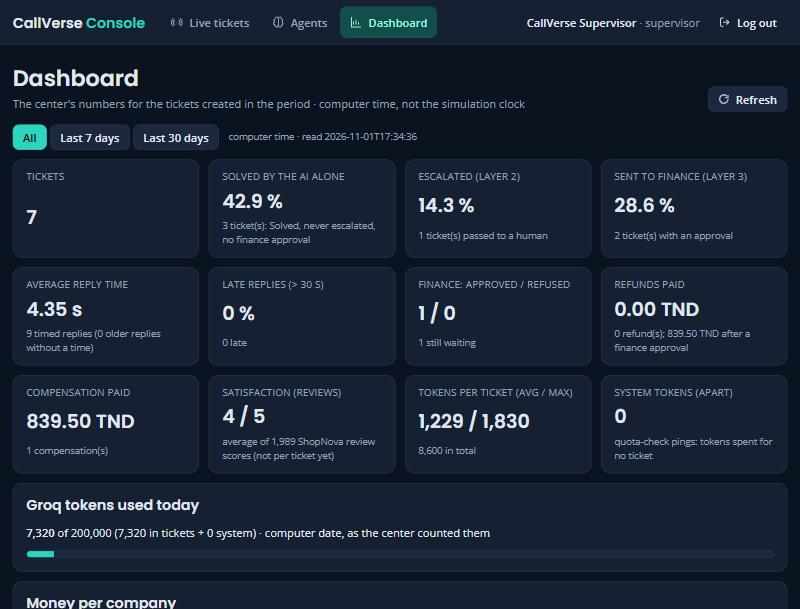
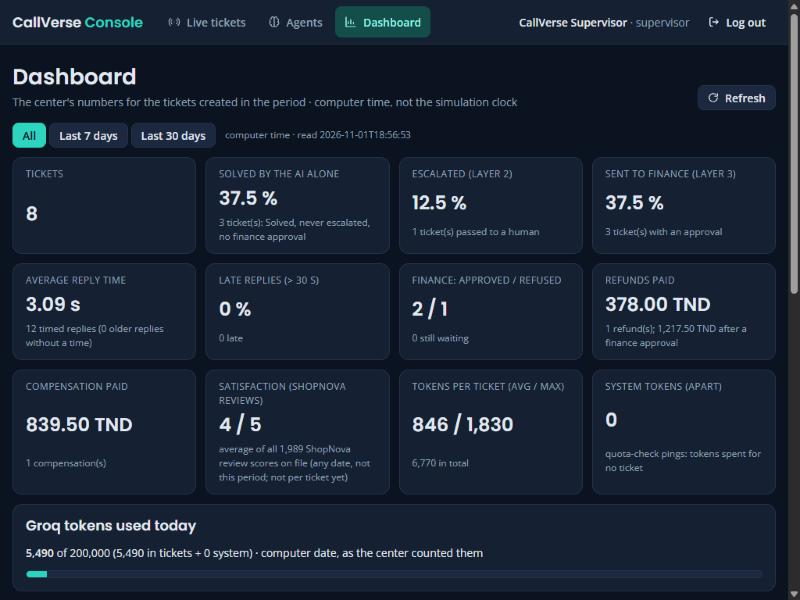
UI step 7 handoff: acceptance sheet matched to the generated data, walkthrough results recorded
- acceptance.md: PowerShell environment lines, the accounts with what each owns in the fixture, the three
  cases with their ids, approve / refuse on separate fresh folders, Dali's recorded results (fake models),
  real-model checks kept "not run".
- screenshots: admin queue 4515, Atlas queue / compensation approved / refund refused / decided, Console
  dashboard after the decisions; the outdated Atlas queue image removed.

diff --git a/webui/reports/acceptance.md b/webui/reports/acceptance.md
@@ -1,131 +1,163 @@
 # CallVerse web UI — acceptance walkthrough (for Yassine, with Dali)
 
 Branch `feat/ui-react`, folder `webui/`. Nothing here is accepted until Yassine says so; the merge into `main` is
-his. Fill the **Result** columns during the walkthrough: `pass` / `fail` / `not run`, plus a note or a
-screenshot name under `webui/reports/screenshots/` as evidence.
+his. Fill the **Result** columns during the walkthrough: `pass` / `fail` / `not run`, plus a note or a screenshot
+name under `webui/reports/screenshots/` as evidence. The **Dali 2026-11-01** column is what Dali saw on a fresh
+fixture with the fake models (part A); part B (real models) was **not run**.
 
 Two kinds of checks, kept apart:
 
-- **A. Fake-model checks** (demo fixture, `CALLVERSE_WEBUI_FAKE_CHAT=1`): no model, no Groq, no real database.
-  Everything in parts 1–4 and most of 5 can be run this way, any day.
-- **B. Real integration checks** (part 6): the real `config/accounts.yaml`, the real `callverse/data/*.db`, Ollama
-  up, the Groq key in `.env`. **Not verified by Dali** (never run through the new UI); they spend Groq quota and
-  write real rows, so they are run together, once, and bounded.
+- **A. Fake-model checks** (demo fixture + `CALLVERSE_WEBUI_FAKE_CHAT=1`): no model, no Groq, no real database,
+  no real money. Parts 1–5. The pending approvals are made by the real Coordinators in queue mode; the decisions
+  run the real `approvals.decide` on the temp databases; only the chat channel and the reply writer are fakes.
+- **B. Real integration checks** (part 6): the real `config/accounts.yaml`, the real `callverse/data/*.db`,
+  Ollama up, the Groq key in `.env`. Never run through the new UI by Dali; they spend Groq quota and write real
+  rows, so they are run together, once, bounded.
 
-## 1. Startup
+## 1. Startup (A)
 
-Fake-model setup (A), from the repository root, two terminals:
+From the repository root. Make a fresh fixture folder (any empty folder; delete it at the end):
 
 ```bash
-python -m webui.api.dev_fixture C:\path\to\a\temp\folder
+python -m webui.api.dev_fixture C:\Temp\cv-demo
 ```
 
-Set the four `CALLVERSE_WEBUI_*` variables it prints, plus `CALLVERSE_LAYER3_MODE=queue` and
-`CALLVERSE_WEBUI_FAKE_CHAT=1`, in the terminal of the API. Then:
+It prints the pending approvals it made (ids `#1 #2 #3` on a fresh folder). Then, **in the terminal of the
+API** (PowerShell, copy-paste; change the folder if you used another one):
 
-```bash
+```powershell
+$env:CALLVERSE_WEBUI_ACCOUNTS = "C:\Temp\cv-demo\accounts.yaml"
+$env:CALLVERSE_WEBUI_TICKETS_DB = "C:\Temp\cv-demo\callverse.db"
+$env:CALLVERSE_WEBUI_SHOPNOVA_DB = "C:\Temp\cv-demo\shopnova.db"
+$env:CALLVERSE_WEBUI_ATLAS_DB = "C:\Temp\cv-demo\atlas.db"
+$env:CALLVERSE_LAYER3_MODE = "queue"
+$env:CALLVERSE_WEBUI_FAKE_CHAT = "1"
 python -m webui.api.run
 ```
+
+Second terminal:
 
 ```bash
 npm --prefix webui/frontend run dev
 ```
 
-Open <http://127.0.0.1:5173>. Password of every demo account in the fixture: `demo-only`. Delete the temp folder
-at the end.
+Open <http://127.0.0.1:5173>. Password of every demo account in the fixture: `demo-only`.
 
-Real setup (B): same two commands **without** any `CALLVERSE_WEBUI_*` variable and without
-`CALLVERSE_WEBUI_FAKE_CHAT` (the API then uses the real accounts file and databases); Ollama running; `.env`
-with the Groq key (never printed, never read by the UI code). `CALLVERSE_LAYER3_MODE=queue` only if you want the
-approval queue to fill.
+**One approval cannot be both approved and refused.** The fixture gives three pending cases; the walkthrough
+below approves two and refuses one. To see the ShopNova refusal too, run `dev_fixture` into a **second fresh
+folder** (`C:\Temp\cv-demo-2`), point the API at it (same six lines) and refuse case `#1` there (part 4, last row).
 
-| Check | Expected | Result | Evidence |
-|---|---|---|---|
-| `python -m webui.api.run` starts | "Uvicorn running on http://127.0.0.1:8610", `/api/health` → `{"ok": true}` | | |
-| Vite starts | page on 127.0.0.1:5173, login screen | | |
-| binds | both on 127.0.0.1 only (not 0.0.0.0) | | |
+| Check | Expected | Dali 2026-11-01 | Result | Evidence |
+|---|---|---|---|---|
+| `dev_fixture` | prints "Pending approvals (test data): ShopNova #1 youssef order 4515 refund 378.00 TND; Atlas #2 nizar flight 7004 compensation 839.50 TND; Atlas #3 sonia flight 7006 refund 1900.00 TND" | pass | | `test_dev_fixture.py` |
+| API starts | "CHAT IS FAKE …" line, Uvicorn on 127.0.0.1:8610, `/api/health` → `{"ok": true}` | pass | | |
+| Vite starts | login page on 127.0.0.1:5173 | pass | | |
+| binds | both on 127.0.0.1 only | pass (`run.py`, `vite.config.js`) | | |
 
-## 2. Accounts and roles
+## 2. Accounts and roles (A)
 
-| Account | Role / company | Lands on | Must NOT see | Result | Evidence |
-|---|---|---|---|---|---|
-| `supervisor` | supervisor, no company | Console → Live tickets | /shop, /atlas, /admin pages (403 in the API, "denied" box) | | |
-| `admin` | ShopNova admin | Refund approvals | Atlas approvals / records / dashboard, any customer page | | |
-| `sara` `youssef` `amira` `karim` `leila` | ShopNova customers (ids 1–5) | My orders | another customer's order (404, same as missing), Atlas pages, admin pages | | |
-| `atlas_admin` | Atlas admin | Atlas approvals | ShopNova approvals / dashboard, customer pages | | |
-| `hedi` `sonia` `tarek` `lobna` `nizar` | Atlas customers (ids 1–5) | My bookings | another customer's booking, ShopNova pages (`hedi` is id 1 at Atlas, `sara` id 1 at ShopNova: never the same data) | | |
-| wrong password | "Wrong username or password", no detail | | | | |
-| logout | back to login; a reload stays on login (cookie gone) | | | | |
+What the fixture holds per customer (the scripted samples; everything else is real Olist / hotel / flight data):
+
+| Account | Role / company | Lands on | Owns (scripted) | Must NOT see |
+|---|---|---|---|---|
+| `supervisor` | supervisor, no company | Console → Live tickets (8 tickets) | — | `/shop`, `/atlas`, `/admin` pages (403, "denied" box) |
+| `admin` | ShopNova admin | Refund approvals: **#1** order 4515, 378.00 TND | — | Atlas approvals / records / dashboard, customer pages |
+| `sara` | ShopNova customer 1 | My orders | orders 4509, **4512** (stuck at the depot, 59.90 TND); ticket T-0001 (refund 59.90 approved) | 4515 (youssef's) → not found |
+| `youssef` | ShopNova customer 2 | My orders | orders 4505, 4510, **4515** (378.00 TND, 8 days late); tickets T-0002 (tracking 4510), **T-0006 waiting for finance** | Atlas pages |
+| `amira` `karim` `leila` | ShopNova customers 3–5 | My orders | 4506 + 4511 / 4507 + 4513 / 4508 + 4514 (leila: T-0005 cancel 4514) | another customer's order |
+| `atlas_admin` | Atlas admin | Approvals: **#2** flight 7004 compensation 839.50, **#3** flight 7006 refund 1,900.00 | — | ShopNova approvals / dashboard |
+| `hedi` | Atlas customer 1 | My bookings | hotels 7001, 7011; flight 7005 (cancelled); ticket T-0003 (rebooking, escalated) | sara's data (same numeric id 1 at ShopNova) |
+| `sonia` | Atlas customer 2 | My bookings | hotel 7002; **flight 7006**; ticket **T-0008 waiting for finance** | |
+| `tarek` | Atlas customer 3 | My bookings | hotel 7003; flight 7007 | |
+| `lobna` | Atlas customer 4 | My bookings | hotel 7009; flight 7008 (cancelled); ticket T-0004 (baggage, waiting for user) | |
+| `nizar` | Atlas customer 5 | My bookings | **flight 7004**, flight 7010 (wheelchair request); ticket **T-0007 waiting for finance** | |
+
+| Check | Expected | Dali 2026-11-01 | Result | Evidence |
+|---|---|---|---|---|
+| each account lands on its home | as the table | pass (API: `test_api.py`, `test_atlas.py`; browser: admin, atlas_admin, youssef, sonia, nizar, supervisor) | | |
+| wrong password | "Wrong username or password", no detail | pass (test) | | |
+| cross-company / cross-customer | 403 or the same 404 as missing | pass (`test_shop.py`, `test_atlas.py`, `test_admin.py`) | | |
+| logout | back to login; reload stays on login | pass (test, browser) | | |
 
 ## 3. Customer flows (A: fake chat)
 
-| Flow | Steps | Expected | Result | Evidence |
-|---|---|---|---|---|
-| ShopNova My orders | log in as `sara` | her orders, newest first, "today 2026-10-09 (simulation clock)" | | |
-| Order detail | open order 4505 | lines, tracking, refunds; missing values "—", never 0 | | |
-| Ask about this order | button on the detail | chat opens with "About order 4505…" placeholder | | |
-| Chat reply | send "where is my order" | live steps (Intake, Agent …), then a reply starting `[TEST DATA]`, outcome shown as text | | |
-| Chat busy | send a message containing `busy` | "Our assistant is busy right now … your message is saved"; no red error box | | |
-| Chat disconnect | send a message containing `slow`, reload the page within 20 s | "A message is still being processed", Send disabled, "Check status" re-attaches; after ~20 s the reply appears once | | |
-| Chat failure | send a message containing `fail` | red box with the error's words, no reply invented | | |
-| Enter / Shift+Enter | in the chat box | Enter sends, Shift+Enter makes a new line | | |
-| Atlas My bookings | log in as `hedi` | flights and hotel stays (7001 …), types labelled | | |
-| Booking detail | open hotel 7001 and a flight | facts list, refunds, compensations; wrong type in the URL → not found | | |
-| Atlas chat with context | "Ask about this booking" | placeholder names the booking; reply `[TEST DATA]` | | |
-| Phone 375 px | any customer page | no horizontal scroll; fact lists stack label over value | | `10_atlas_booking_detail_phone_final.jpg` |
+| Flow | Steps | Expected | Dali 2026-11-01 | Result | Evidence |
+|---|---|---|---|---|---|
+| ShopNova My orders | `sara` | orders 4509 and 4512 among her orders, newest first, "today 2026-10-09 (simulation clock)" | pass (step 2 browser; `test_shop.py`) | | |
+| Order detail | `sara` → 4512 | 59.90 TND, stuck at the depot, promised 2026-10-03; "—" for missing values; 4515 → not found | pass (test: ownership) | | |
+| Ask about this order | button on the detail | chat with "About order 4512…" placeholder | pass (step 3 browser) | | |
+| Chat reply | send "where is my order" | live steps, then a reply starting `[TEST DATA]`, outcome as text | pass (browser, `Chat.test.jsx`) | | `desktop_31_chat_reply_test_data.jpg` |
+| Chat busy | message containing `busy` | "Our assistant is busy right now … your message is saved", no red box | pass (test + browser) | | |
+| Chat disconnect | message containing `slow`, reload within 20 s | "still being processed", Send disabled, Check status re-attaches; one reply after ~20 s | pass (browser, step 3) | | `desktop_33_chat_still_running_after_reload.jpg` |
+| Chat failure | message containing `fail` | red box with the error's words, no invented reply | pass (test) | | |
+| Atlas My bookings | `nizar` | flights 7004 and 7010 | pass (browser) | | |
+| Booking detail | `hedi` → hotel 7001 | facts list; wrong type in the URL → not found | pass (browser, phone) | | `10_atlas_booking_detail_phone_final.jpg` |
+| Unread reply after a decision | `youssef` / `nizar` / `sonia` after part 4 | notice "new reply" on the ticket, the finance reply as the last message | pass (API walkthrough + `test_dev_fixture.py`) | | |
+| Phone 375 px | any customer page | no horizontal scroll; fact lists stack label / value | pass (browser) | | |
 
-## 4. Admin flows (A)
+## 4. Admin flows (A) — the decisions, in this order
 
-| Flow | Steps | Expected | Result | Evidence |
-|---|---|---|---|---|
-| ShopNova queue | `admin` → Refund approvals | one pending approval (order 4505, 1,850 TND, test data) with the order facts and the rule | | |
-| Confirm dialog | type a reason, Approve | dialog repeats approval id, amount, action, choice, reason; Tab / Shift+Tab stay inside; Escape closes; focus returns to Approve | | `07_shop_admin_dialog_keyboard_phone.jpg` |
-| Decide | Confirm approval | result box: approval approved, ticket status, "refund … written", "the customer got a new reply"; the row moves to Decided; the customer (`sara`) sees an unread-reply notice | | `desktop_42_admin_approved_result.jpg` |
-| Second click | double-click Confirm | one POST only (`client_id`), one decision | | |
-| Already decided | decide the same approval from a second tab | "already approved", nothing written twice | | |
-| Refuse | Refuse with a reason | nothing paid, customer told, row Decided | | |
-| Atlas queue | `atlas_admin` → Approvals | the pending compensation (flight 7004, 839.50 TND) and refund (flight 7006, 1,900 TND), action named (refund / compensation), never assumed | | `desktop_53_atlas_admin_queue_compensation.jpg` |
-| Atlas records | Records → hotels / flights / users / refunds / compensations / log | 50 rows per page, search, paging; read-only | | |
-| Denied | `admin` opens `/atlas/admin/approvals` | denied box with the API's words, no data | | |
+Each row is done once; the ids are those of a fresh fixture folder.
 
-## 5. Dashboards: same data, same period, Streamlit next to the new UI
+| # | Flow | Steps | Expected | Dali 2026-11-01 | Result | Evidence |
+|---|---|---|---|---|---|---|
+| 4.1 | ShopNova queue | `admin` → Refund approvals | one pending: **#1**, order 4515 · Youssef Trabelsi, 378.00 TND, rule R-REF-03 "Full refund for a delay of more than 5 days", proposal P-0001, facts: stuck at depot, paid 378.00, already refunded 0.00, 8 days late | pass (browser, exactly that) | | `desktop_40_admin_queue_4515.jpg` |
+| 4.2 | Confirm dialog | reason "late and stuck", Approve | dialog repeats #1, 378.00 TND, refund, choice, reason; Tab / Shift+Tab stay inside; Escape closes; focus back | pass (browser + 2 tests) | | `07_shop_admin_dialog_keyboard_phone.jpg` |
+| 4.3 | Approve #1 | Confirm approval | result: "Approval 1: approved. Outcome approve · ticket T-0006 is now Solved · refund 378.00 TND written · the customer got a new reply."; Waiting (0); order 4515 refunded | pass (browser, exactly that; evidence stage `complete`, notification `confirmed`) | | `desktop_42_admin_approved_result.jpg` |
+| 4.4 | Double click | double-click Confirm | one POST (`client_id`), one refund | pass (test `submits once`) | | |
+| 4.5 | Again | decide #1 again (another tab or a new request id) | 409 `already_decided`, nothing paid twice | pass (API walkthrough: 409 `already_decided`; `test_dev_fixture.py`) | | |
+| 4.6 | Atlas queue | `atlas_admin` → Approvals | Waiting (2): **#2** flight booking 7004 · Nizar Haddad · compensation 839.50 TND · AP-0001 · AT-FLT-03 "Compensation for a long delay"; **#3** flight booking 7006 · Sonia Belhaj · refund 1,900.00 TND · AP-0002 · AT-FLT-04 "Delay of 5 hours or more at departure"; "Confirmed by code: yes" | pass (browser, exactly that) | | `desktop_53_atlas_admin_queue.jpg` |
+| 4.7 | Approve #2 | reason "delay confirmed", Approve, Confirm | "Approval 2: approved. Outcome approve · ticket T-0007 is now Solved · compensation 839.50 TND written · the customer got a new reply."; one compensation on 7004 (Records → Compensation: one row, 839.5, approved, AT-FLT-03, AP-0001), no refund | pass (browser) | | `desktop_54_atlas_compensation_approved.jpg` |
+| 4.8 | Refuse #3 | reason "airline already refunded", Refuse, Confirm | "Approval 3: refused. Outcome layer3 refused · ticket T-0008 is now Solved · nothing paid · the customer got a new reply."; Decided (2): #3 refused, #2 approved, both "decided by atlas_admin, 2026-10-09T09:00:00 (simulation clock)"; Records → Admin log: `refuse_refund` AP-0002 and `approve_compensation` 1 | pass (browser) | | `desktop_55_atlas_refund_refused.jpg`, `desktop_56_atlas_decided.jpg` |
+| 4.9 | Customers told | `youssef`, `nizar`, `sonia`, `hedi`, `sara` → chat | youssef: unread T-0006, last message the finance reply; nizar: unread T-0007; sonia: unread T-0008 ("We are sorry, we cannot approve…"); hedi and sara: nothing unread | pass (API walkthrough, all five) | | |
+| 4.10 | Atlas records | Records → Compensation, Admin log | "1 rows · 50 per page · page 1 of 1": the compensation on 7004; the log's two rows carry approval_id 2 and 3, the reasons, the amounts | pass (browser) | | |
+| 4.11 | Denied | `admin` opens `/atlas/admin/approvals` | 403 `admin_only`, denied box with the API's words, no data | pass (API walkthrough: 403 `admin_only`; browser step 5) | | |
+| 4.12 | **ShopNova refusal** (second fresh folder) | `admin`, reason "duplicate claim", Refuse #1 | outcome `layer3_refused`, refund none, ticket T-0006 Solved; Decided: #1 refused "duplicate claim"; order 4515 still `stuck_at_depot`, refunds empty; youssef: unread T-0006, last message "We are sorry, we cannot approve…" | pass (API walkthrough on folder 2, exactly that) | | |
 
-Run the Streamlit app and the new UI on the **same database files** (the real ones for B, or point the Streamlit
-app at the fixture files for A) and the **same period**. Read the numbers side by side; they must be equal, not
-"close" (same functions underneath: `reads.dashboard`, `admin_reads.dashboard`, `atlas_app_reads.dashboard`).
+Note on the reply the customer gets: the fake writer's sentence is checked by the core's SLM check (it must
+carry the facts); it fails that check, so the core writes its **template** reply ("Your request has been
+approved about your order 4515 … Your refund of 378.00 TND is approved after a check by our finance team"). Not
+marked `[TEST DATA]`, but no model ran (the core's own fallback). The fake chat replies are marked.
 
-| Dashboard | Period to compare | Numbers to read in both | Result | Evidence |
-|---|---|---|---|---|
-| Console Dashboard (`supervisor`) | All, then Last 7 days (computer time) | tickets, solved by the AI %, escalated, money per company, Groq today (used / limit), tickets per day, by status | | `desktop_60/61_console_dashboard*.jpg` |
-| Console Dashboard satisfaction | any | the same average as the Streamlit page; the note says "all ShopNova review scores on file (any date, not this period)" | | |
-| Console Agents | All | per agent: tickets, tokens, average seconds, models; Coordinator "rules (no LLM)"; "—" where Streamlit shows nothing | | `desktop_62_console_agents.jpg` |
-| ShopNova dashboard (`admin`) | 30 days, then 90 (simulation clock, from … to 2026-10-09) | orders, sales TND, late, stuck, refunds paid, top products / categories, review average + count, low stock | | `desktop_63_shop_admin_dashboard.jpg` |
-| Atlas dashboard (`atlas_admin`) | All, then 7 days | hotel / flight by status, cancellation and delay rates, refunds and compensation paid, upcoming arrivals / departures until 2026-10-23 | | `desktop_64_atlas_admin_dashboard.jpg` |
-| Period change that fails | stop the API, change the period | old numbers dimmed with "could not be loaded … the numbers below are those of <old period>"; Retry works after restart | | |
-| Charts | any | "Show as table" lists the same values as the bars; the chart's accessible name lists them | | |
+## 5. Dashboards (A, then B): same data, same period, Streamlit next to the new UI
 
-## 6. Real integration (B) — bounded manual smoke test, NOT verified by Dali
+Run the Streamlit page and the new UI on the **same database files** and the **same period**; read the numbers
+side by side. They must be equal (same functions underneath: `reads.dashboard`, `admin_reads.dashboard`,
+`atlas_app_reads.dashboard`). For part A point the Streamlit apps at the fixture files too (their own
+`CALLVERSE_*` settings, see the main README); for part B both read the real files.
 
-Run once, together, with Ollama up and the Groq key in `.env`. Budget: at most **3 chat messages** and **1
-decision** (each chat message costs Groq tokens; each decision writes a real row). Stop at the first failure and
-keep the trace file name (`traces/`).
+| Dashboard | Period | Numbers to read in both | Dali 2026-11-01 (new UI on the fixture, before the decisions) | Result | Evidence |
+|---|---|---|---|---|---|
+| Console Dashboard (`supervisor`) | All, then Last 7 days (computer time) | tickets, solved by the AI %, escalated, money per company, Groq today (used / limit), tickets per day, by status | after 4.3–4.8: 8 tickets, 37.5 % solved by the AI alone, 12.5 % escalated, 37.5 % sent to finance, finance 2 / 1 (0 waiting), refunds paid 378.00 TND, compensation 839.50 TND, Groq today 5,490 of 200,000, money per company atlas 839.5 / shopnova 378 | | `desktop_60_console_dashboard.jpg`, `desktop_01_supervisor_live_tickets_after_decisions.jpg` |
+| Console satisfaction | any | same average as Streamlit; note "all ShopNova review scores on file (any date, not this period)" | shown with the note | | |
+| Console Agents | All | per agent: tickets, tokens, average seconds, models; Coordinator "rules (no LLM)"; "—" where nothing | pass (step 6) | | `desktop_62_console_agents.jpg` |
+| ShopNova dashboard (`admin`) | 30 days, then 90 (simulation clock) | orders, sales TND, late, stuck, refunds paid, top products / categories, review average + count, low stock | pass (step 6; after 4.3 "refunds paid" includes 378.00) | | `desktop_63_shop_admin_dashboard.jpg` |
+| Atlas dashboard (`atlas_admin`) | All, then 7 days | hotel / flight by status, cancellation and delay rates, refunds and compensation paid, upcoming until 2026-10-23 | pass (step 6; after 4.7 "compensation paid" includes 839.50) | | `desktop_64_atlas_admin_dashboard.jpg` |
+| Period change that fails | stop the API, change the period | old numbers dimmed, "could not be loaded … the numbers below are those of <old period>"; Retry works after restart | pass (`Dashboards.test.jsx`; browser step 6) | | |
+| Charts | any | "Show as table" lists the same values as the bars | pass (test + browser) | | |
+| **Streamlit side by side** | same files, same period | equal numbers | **not run** (Streamlit not started by Dali) | | |
 
-| # | Step | Expected | Result | Evidence |
-|---|---|---|---|---|
-| 1 | API without `CALLVERSE_WEBUI_*`, log in as a real ShopNova customer | real orders listed | | |
-| 2 | one chat message about a real order ("where is my order N") | steps stream live (Intake → Router → Agent → Coordinator → SLM), reply not marked `[TEST DATA]`, the same ticket visible in the Console and in the Streamlit Console | | ticket id, trace file |
-| 3 | one message that the queue mode sends to finance (amount above the limit, `CALLVERSE_LAYER3_MODE=queue`) | "waiting for finance" outcome; the approval appears in the admin queue of the new UI AND in the Streamlit admin page | | approval id |
-| 4 | one decision on it in the new UI | refund written once, approval decided, the customer's ticket gets the reply; the Streamlit page shows the same decided row | | |
-| 5 | (optional, only if the Groq daily quota is actually gone) one message | the channel's busy reply shown as a saved, normal result | | |
+## 6. Real integration (B) — bounded manual smoke test, NOT run by Dali
 
-Not in this smoke test (would need core work or a quota we do not want to spend): a forced Groq 429, a decision
-interrupted halfway, Agent C / D flows (escalated until they exist).
+Run once, together, with Ollama up and the Groq key in `.env`, **without** any `CALLVERSE_WEBUI_*` variable and
+without `CALLVERSE_WEBUI_FAKE_CHAT` (the API then uses the real accounts file and databases). Budget: at most
+**3 chat messages** and **1 decision**. Stop at the first failure and keep the trace file name (`traces/`).
+
+| # | Step | Expected | Dali | Result | Evidence |
+|---|---|---|---|---|---|
+| 1 | API on the real files, log in as a real ShopNova customer | real orders listed | not run | | |
+| 2 | one chat message about a real order | steps stream live (Intake → Router → Agent → Coordinator → SLM); reply not marked `[TEST DATA]`; the ticket visible in the new Console and in the Streamlit Console | not run | | ticket id, trace file |
+| 3 | one message the queue mode sends to finance (`CALLVERSE_LAYER3_MODE=queue`, amount above the limit) | "waiting for finance"; the approval in the new UI's queue AND in the Streamlit admin page | not run | | approval id |
+| 4 | one decision on it in the new UI | money written once, approval decided, the customer's ticket gets the SLM reply; Streamlit shows the same decided row | not run | | |
+| 5 | (only if the Groq daily quota is actually gone) one message | the channel's busy reply shown as a saved, normal result | not run | | |
+
+Not in this smoke test: a forced Groq 429, a decision interrupted halfway, Agent C / D flows.
 
 ## 7. Open core blockers (Yassine's decisions)
 
 | # | Blocker | Where it bites | What the UI does today |
 |---|---|---|---|
-| 1 | **Partial decision recovery.** `approvals.decide` can fail after the company write (money committed, approval row still pending or the customer reply not sent). There is no core function to finish such a case; calling `decide` again (new UI or Streamlit, same function) refuses an already decided proposal, and a retry could pay twice. | admin queue, both companies | shows the evidence stage (`company_written_approval_pending`, `approval_closed_notification_unconfirmed`, `nothing_written`) and refuses to replay. **Procedure until then: the operator keeps the evidence shown on screen (approval id, stage, error words, time) and escalates to Yassine for a supported core recovery. No manual database edit, no second payment attempt.** Requested: `approvals.finish(approval_id)` in `callverse/`. |
+| 1 | **Partial decision recovery.** `approvals.decide` can fail after the company write (money committed, approval row still pending or the customer reply not sent). No core function finishes such a case; calling `decide` again (new UI or Streamlit, same function) refuses an already decided proposal, and a retry could pay twice. | admin queue, both companies | shows the evidence stage (`company_written_approval_pending`, `approval_closed_notification_unconfirmed`, `nothing_written`) and refuses to replay. **Procedure until then: keep the evidence shown on screen (approval id, stage, error words, time) and escalate to Yassine for a supported core recovery. No manual database edit, no second payment attempt.** Requested: `approvals.finish(approval_id)` in `callverse/`. |
 | 2 | Satisfaction per ticket | Console dashboard | the ShopNova review average, labelled as such (waits for agent F) |
 | 3 | Serving `frontend/dist` from the API | demo | two processes today; a few lines in `app.py` if wanted |
 | 4 | Screenshot folder | docs | `webui/reports/screenshots/` (brief: `docs/screenshots/`) |
@@ -145,9 +177,9 @@ npm --prefix webui/frontend test
 npm --prefix webui/frontend run build
 ```
 
-| Check | Last result (2026-11-01, Dali) | Result today |
+| Check | Dali 2026-11-01 | Result today |
 |---|---|---|
-| API tests | 79 passed | |
+| API tests (incl. `test_dev_fixture.py`: the fixture in a fresh folder, the three decisions through the API) | 82 passed | |
 | frontend tests | 51 passed, 10 files | |
 | build | OK | |
 | changes outside `webui/` on the branch | 3 README lines (step 1 pointer) | |

diff --git a/webui/reports/step-7.md b/webui/reports/step-7.md
@@ -30,7 +30,9 @@ Screenshots: `webui/reports/screenshots/step-7/` (20 files). **Final state** = e
 prefix: `01`–`08` from this pass (supervisor desktop tickets and detail; supervisor, ShopNova admin and Atlas
 customer on the phone; the dialog with the keyboard), `10_atlas_booking_detail_phone_final.jpg` (the fact list
 after the fix: label above value, page 375 px wide), `desktop_*` = the final desktop state of the chat, approvals,
-bookings and the four dashboards (unchanged since steps 3–6, copied here for one index). **Historical** =
+bookings and the four dashboards (`desktop_40`, `42`, `53`–`56`, `60` and
+`desktop_01_supervisor_live_tickets_after_decisions` retaken on the corrected fixture; the others unchanged
+since steps 3–6, copied here for one index). **Historical** =
 `before_09_atlas_booking_detail_phone.jpg`, the same page before the fix (kept to show the defect; not the
 current UI).
 
@@ -63,6 +65,16 @@ In this step's commit (browser / accessibility pass):
 - `webui/reports/acceptance.md`: the walkthrough sheet for Yassine (startup, accounts, expected results per
   flow, dashboard comparison on identical data and periods, fake-model vs real checks, open core blockers,
   pass / fail / not-run fields).
+- **Demo fixture corrected** (acceptance preparation): a fresh `dev_fixture` used to make a ShopNova approval on
+  order 4505 (a 34.50 TND order) with a proposal id that existed nowhere, for a ticket of user 3, and no Atlas
+  refund. Now the three pending cases are made by the real Coordinators in queue mode, like the API test
+  fixtures: youssef's order 4515 (refund 378.00, R-REF-03, P-0001), nizar's flight 7004 (compensation 839.50,
+  AT-FLT-03, AP-0001), sonia's flight 7006 (refund 1,900.00, AT-FLT-04, AP-0002); every other ticket talks about
+  an order / booking its customer owns (sara 4512, youssef 4510, leila 4514, hedi 7005, lobna 7008). New test
+  `webui/api/tests/test_dev_fixture.py` (3): runs `dev_fixture.main` in a fresh folder, decides the three cases
+  through the API with the fake writer, checks one money record each (never two, never the wrong kind), the
+  right customer told, a refusal paying nothing. The walkthrough of `acceptance.md` part 4 was run on two fresh
+  folders in the browser and the API, with the results recorded; screenshots 40, 42, 53–56, 60 retaken.
 - **Fact lists on a phone** (`dl.kv`: booking detail, order detail, approval dialog): a long label left the value
   a few characters wide. Under 480 px the label sits above the value.
 
@@ -83,7 +95,7 @@ Supervisor-only numbers (Groq today, tokens per agent) are on supervisor routes 
 
 | Check | Result |
 |---|---|
-| `python -m pytest webui/api/tests -q` | **79 passed** |
+| `python -m pytest webui/api/tests -q` | **82 passed** (79 + `test_dev_fixture.py`) |
 | `npm --prefix webui/frontend test` | **51 passed** (10 files; rerun after the in-flight dialog fix) |
 | `npm --prefix webui/frontend run build` | OK, JS 272.3 kB (81.4 kB gzip), CSS 23.6 kB |
 | `git diff main --stat -- . ':!webui'` | nothing outside `webui/` (`.agents/`, `.claude/` untracked, not committed) |

diff --git a/webui/README.md b/webui/README.md
@@ -57,10 +57,14 @@ To try the UI **without** the real accounts or the real tickets database, make a
 python -m webui.api.dev_fixture C:\path\to\a\temp\folder
 ```
 
-It prints the three variables to set before starting the API (`CALLVERSE_WEBUI_ACCOUNTS`,
-`CALLVERSE_WEBUI_TICKETS_DB`, `CALLVERSE_WEBUI_SHOPNOVA_DB`, `CALLVERSE_WEBUI_ATLAS_DB`) and
-`CALLVERSE_LAYER3_MODE=queue` (the fixture holds one pending ShopNova refund and one pending Atlas compensation,
-test data). Delete the folder when done.
+It prints the variables to set before starting the API (`CALLVERSE_WEBUI_ACCOUNTS`,
+`CALLVERSE_WEBUI_TICKETS_DB`, `CALLVERSE_WEBUI_SHOPNOVA_DB`, `CALLVERSE_WEBUI_ATLAS_DB`,
+`CALLVERSE_LAYER3_MODE=queue`, `CALLVERSE_WEBUI_FAKE_CHAT=1`) and the three pending approvals it made with the
+real Coordinators in queue mode (test data): youssef's order 4515 (refund 378.00 TND), nizar's flight 7004
+(compensation 839.50 TND), sonia's flight 7006 (refund 1,900.00 TND). One approval is decided once: for a second
+approve / refuse of the same case, make a second fixture folder. `webui/api/tests/test_dev_fixture.py` runs the
+fixture in a fresh folder and decides the three cases through the API. The walkthrough sheet with PowerShell
+setup lines is `reports/acceptance.md`. Delete the folder when done.
 
 To look at the **chat screen without Ollama / Groq**, add `CALLVERSE_WEBUI_FAKE_CHAT=1`: the chat then uses the
 fake channel of `webui/api/dev_fixture.py` (no model, every reply starts with `[TEST DATA]`; the words "busy",
